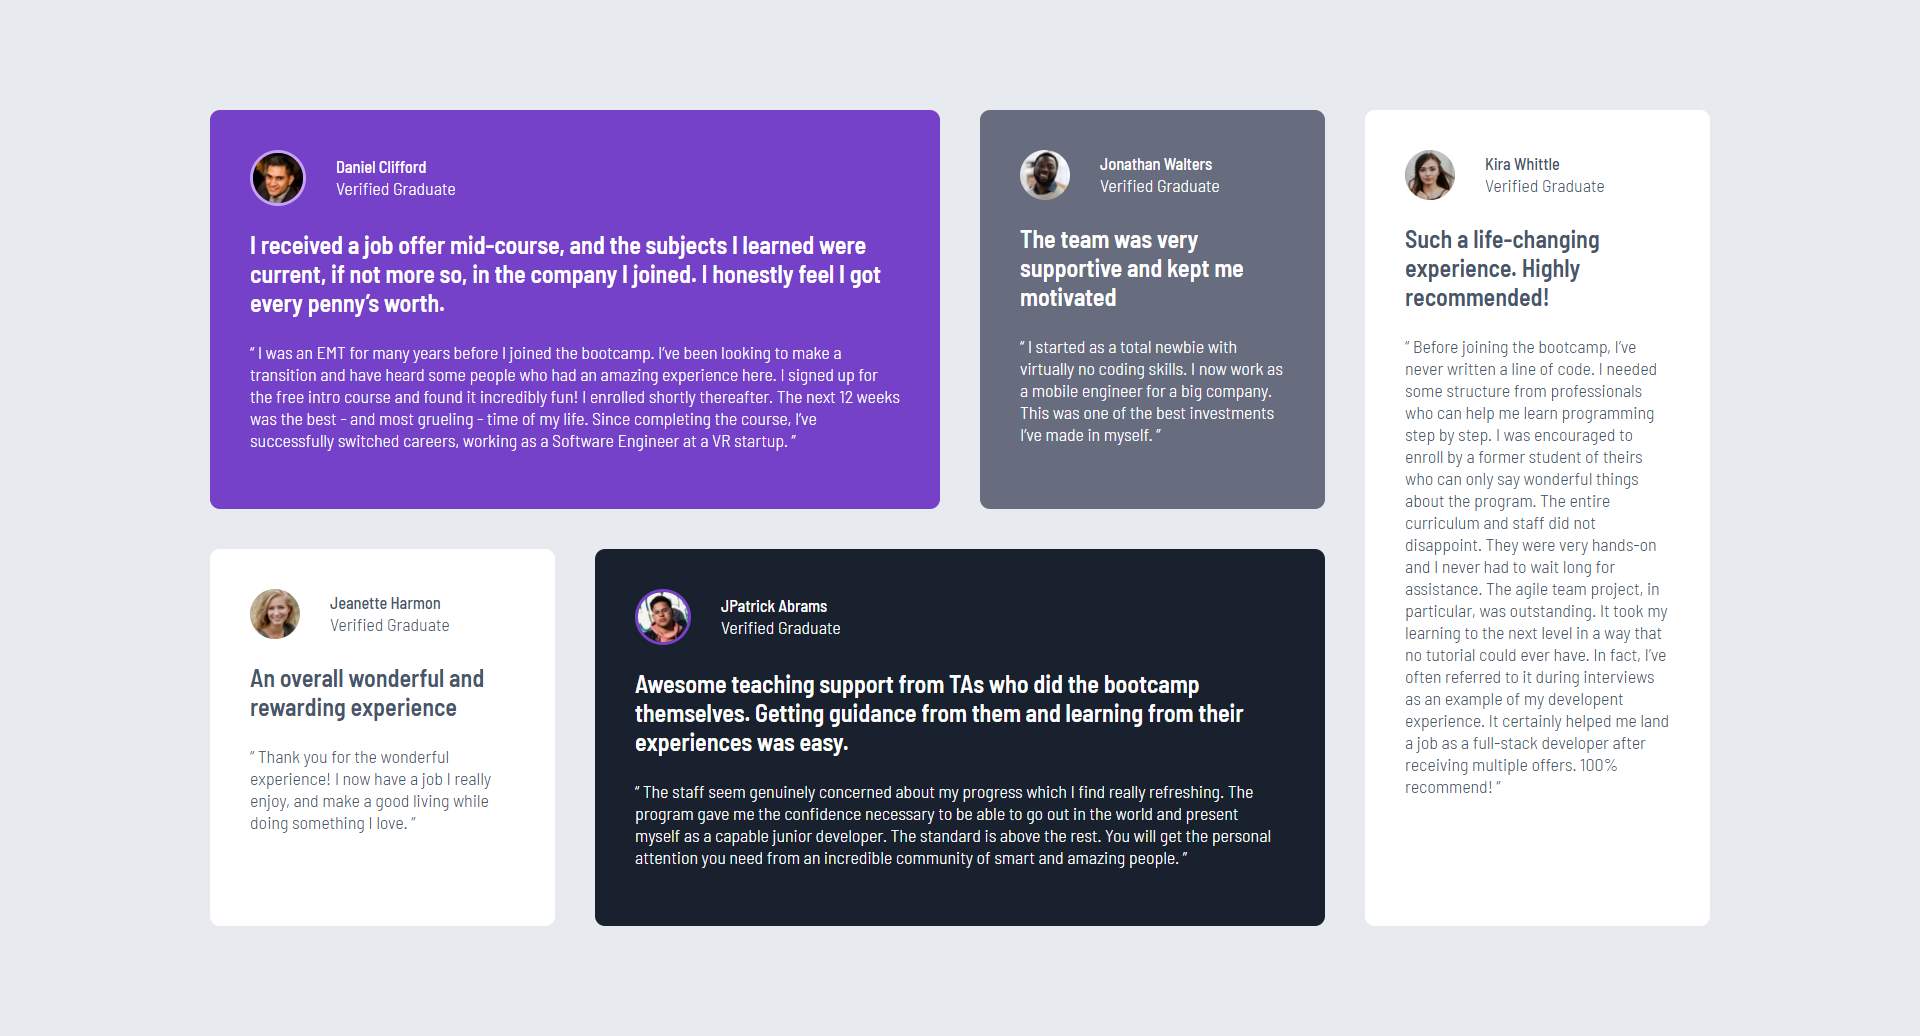
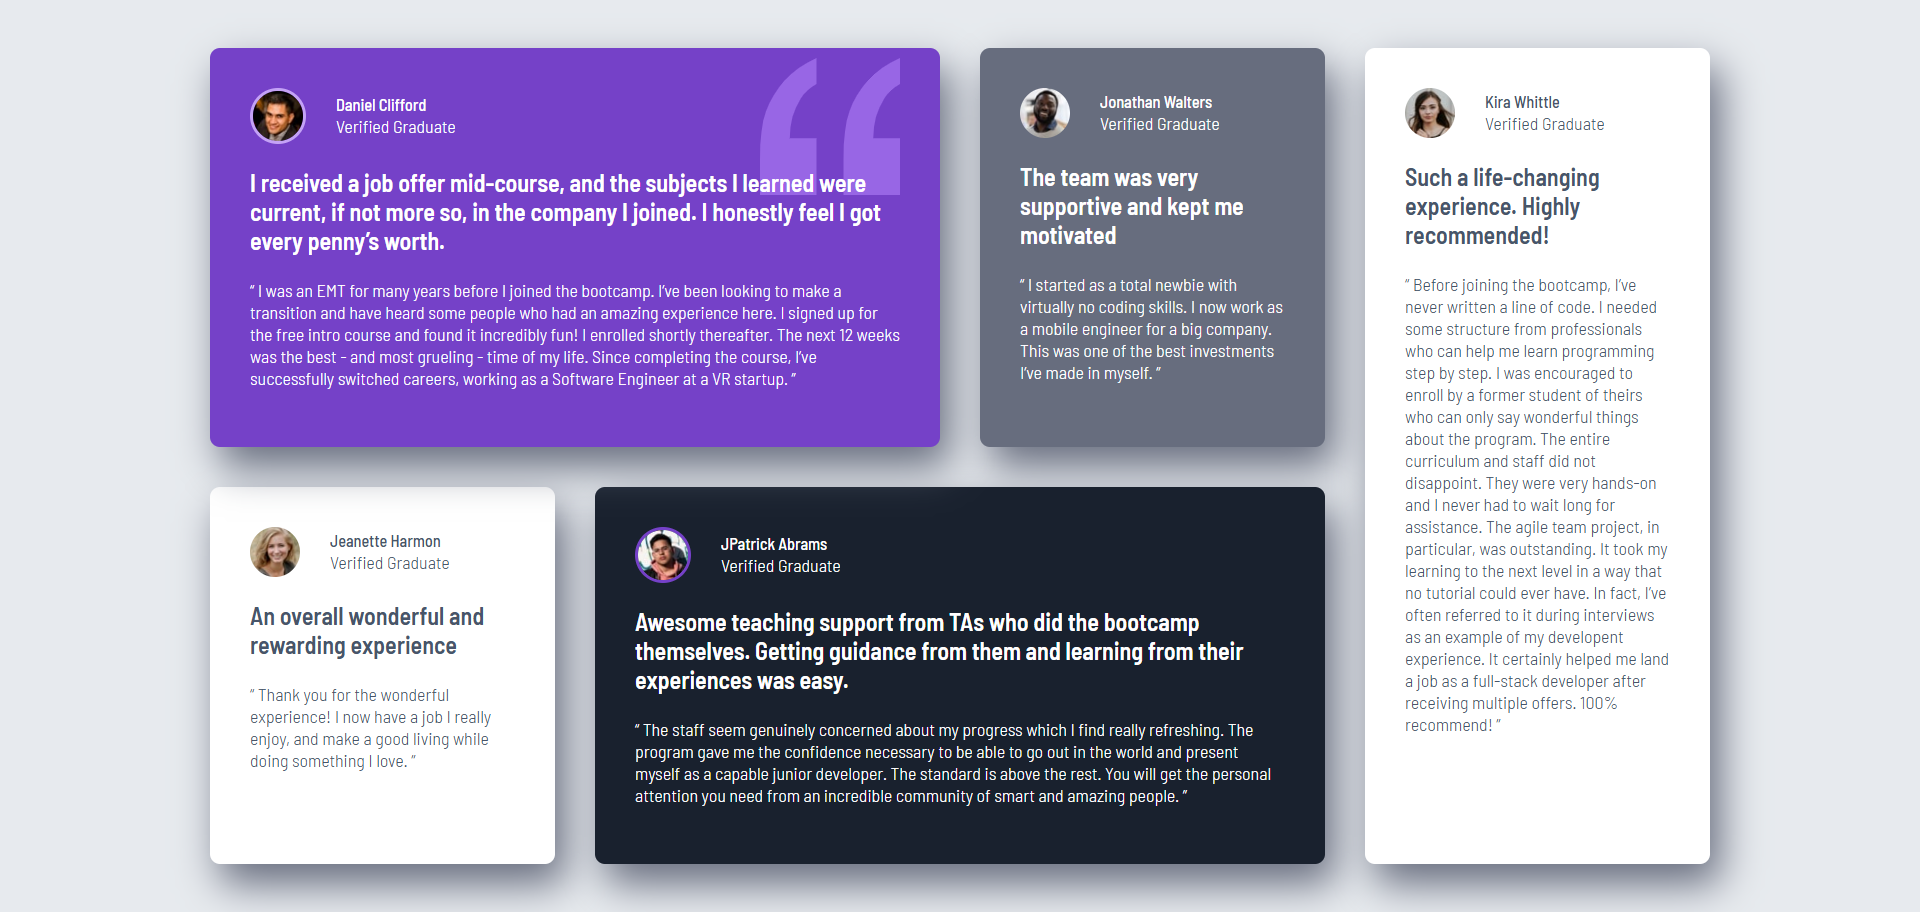
fix: improve grid layout and floating card shadow effect

Changed region(s): [[0.0938, 0.0307, 0.9062, 1.0]]

diff --git a/css/style.scss b/css/style.scss
@@ -18,8 +18,9 @@ body {
   min-height: 100vh;
   background-color: var(--color-Grey-100);
   font-size: 0.8125rem;
-  padding-block: 5rem;
-  padding-inline: 3rem;
+  display: flex;
+  justify-content: center;
+  align-items: center;
 }
 main {
   display: flex;
@@ -28,79 +29,106 @@ main {
   flex-direction: column;
   gap: 2rem;
 }
-.card{
-    padding: calc(2rem);
-    border-radius: 0.5rem;
+.sr-only {
+  position: absolute;
+  width: 1px;
+  height: 1px;
+  padding: 0;
+  margin: -1px;
+  overflow: hidden;
+  clip: rect(0, 0, 0, 0);
+  white-space: nowrap;
+  border: 0;
 }
-.first{
-    color: var(--color-White);
-    background-color: var(--color-Purple-500);
+.card {
+  padding: calc(2rem);
+  border-radius: 0.5rem;
+  box-shadow: 0.5rem 1rem 2rem var(--color-Grey-400);
 }
-.avatar{
-    display: flex;
-    align-items: center;
-    gap: 1.5rem;
+.first {
+  color: var(--color-White);
+  background-color: var(--color-Purple-500);
+  position: relative;
+  z-index: 0;
 }
-img{
-    border-radius: 50%;
-    max-width: 2.5rem;
-    height: auto;
+.first::before {
+  content: "";
+  position: absolute;
+  top: 0.5rem;
+  right: 2rem;
+  width: 7rem;
+  height: 7rem;
+  background-image: url("../images/bg-pattern-quotation.svg");
+  background-repeat: no-repeat;
+  background-size: contain;
+  z-index: -1;
+  opacity: 0.7;
 }
-.first-img{
-    border: 0.15rem solid var(--color-Purple-300);
+.avatar {
+  display: flex;
+  align-items: center;
+  gap: 1.5rem;
 }
-.informations p{
-    margin-block: 0.04rem;
+img {
+  border-radius: 50%;
+  max-width: 2.5rem;
+  height: auto;
 }
-.heavy-text{
-    font-size: 1.2rem;
-    font-weight: 600;
+.first-img {
+  border: 0.15rem solid var(--color-Purple-300);
 }
-.thin-text{
-    font-weight: 300;
-font-size: 0.9rem;
+.informations p {
+  margin-block: 0.04rem;
 }
-.second{
-    color: var(--color-White);
-    background-color: var(--color-Grey-400);
+.heavy-text {
+  font-size: 1.2rem;
+  font-weight: 600;
 }
-.third{
-    color: var(--color-Grey-500);
-    background-color: var(--color-White);
+.thin-text {
+  font-weight: 300;
+  font-size: 0.9rem;
 }
-.forth{
-    color: var(--color-White);
-    background-color: var(--color-Dark-blue);
+.second {
+  color: var(--color-White);
+  background-color: var(--color-Grey-400);
 }
-.forth-img{
-    border: 0.15rem solid var(--color-Purple-500);
+.third {
+  color: var(--color-Grey-500);
+  background-color: var(--color-White);
 }
-.fifth{
-    color: var(--color-Grey-500);
-    background-color: var(--color-White);
+.forth {
+  color: var(--color-White);
+  background-color: var(--color-Dark-blue);
 }
-@media (min-width: 48rem){
-    main {
-        max-width: 75rem;
-        margin: 0 auto;
-        display: grid;
-        grid-template-columns: repeat(4, 1fr);
-        gap: 2rem;
-    }
-    .first{
-        grid-column: 1/3;
-    }
-   .second{
+.forth-img {
+  border: 0.15rem solid var(--color-Purple-500);
+}
+.fifth {
+  color: var(--color-Grey-500);
+  background-color: var(--color-White);
+}
+@media (min-width: 48rem) {
+  main {
+    max-width: 75rem;
+    margin: 0 auto;
+    display: grid;
+    grid-template-columns: repeat(4, 1fr);
+    gap: 2rem;
+  }
+  .first {
+    grid-column: 1/3;
+  }
+  .second {
     grid-column: 3/4;
-   }
-   .third{
+  }
+  .third {
     grid-column: 1/2;
-   }
-   .forth{
+  }
+  .forth {
     grid-column: 2/4;
-   }
-   .fifth{
+  }
+  .fifth {
     grid-column: 4/5;
     grid-row: 1/3;
-   }
+  }
 }

diff --git a/css/style.css b/css/style.css
@@ -18,8 +18,9 @@ body {
   min-height: 100vh;
   background-color: var(--color-Grey-100);
   font-size: 0.8125rem;
-  padding-block: 5rem;
-  padding-inline: 3rem;
+  display: flex;
+  justify-content: center;
+  align-items: center;
 }
 
 main {
@@ -30,14 +31,43 @@ main {
   gap: 2rem;
 }
 
+.sr-only {
+  position: absolute;
+  width: 1px;
+  height: 1px;
+  padding: 0;
+  margin: -1px;
+  overflow: hidden;
+  clip: rect(0, 0, 0, 0);
+  white-space: nowrap;
+  border: 0;
+}
+
 .card {
   padding: 2rem;
   border-radius: 0.5rem;
+  box-shadow: 0.5rem 1rem 2rem var(--color-Grey-400);
 }
 
 .first {
   color: var(--color-White);
   background-color: var(--color-Purple-500);
+  position: relative;
+  z-index: 0;
+}
+
+.first::before {
+  content: "";
+  position: absolute;
+  top: 0.5rem;
+  right: 2rem;
+  width: 7rem;
+  height: 7rem;
+  background-image: url("../images/bg-pattern-quotation.svg");
+  background-repeat: no-repeat;
+  background-size: contain;
+  z-index: -1;
+  opacity: 0.7;
 }
 
 .avatar {

diff --git a/index.html b/index.html
@@ -20,6 +20,7 @@
 </head>
 <body>
     <main class="testimonials-grid">
+      <h1 class="sr-only">Testimonials</h1>
       <article class="card first">
         <div class="avatar">
           <img
